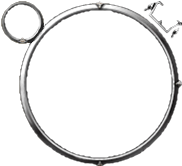
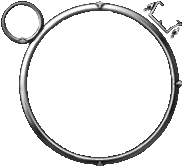
Added a missing pixel on the minimap compass

diff --git a/README.md b/README.md
@@ -1,5 +1,5 @@
 # 2012 Interface
-## Latest version: v4.8 (13-6-2022)
+## Latest version: v4.9 (7-7-2022)
 
 *If you have any questions or find any issues, please message Discord **@Shredit#6109** or **@Leyline#5438***
 
@@ -38,6 +38,12 @@
 ```diff
 - When you get poisoned or venomed, your HP icon will reset to vanilla sprites due to a conflict with the "Poison" plugin, to fix this. Simply turn off "Change HP Orb Icon" tab from the plugin.
 ```
+
+## v4.9 (7-7-2022)
+![!image](https://i.imgur.com/cyr6y0I.gif)
+- Added a missing pixel on the minimap compass
+- 
+
 ## v4.8 (13-6-2022)
 ![!image](https://i.imgur.com/fcAXPmz.png)
 - Removed an unnecessary file
@@ -319,7 +325,7 @@ Almost everything has been replaced as far as it is possible to do so with this 
 ## To be done:
 - **Welcome screen:** Perhaps improve buttons
 - **Trade screen:** Has to be redone whilst having the interface open. Probably needs custom sprites.
-
+- **Some buttons:** The smallest buttons can be improved slightly
 
 ## Credits:
 
@@ -330,3 +336,5 @@ Melkypie - Plugin author
 Shredit - Author
 
 Leyline - Co-Author
+
+Zweeper - Providing base for (unselected) bank tab
